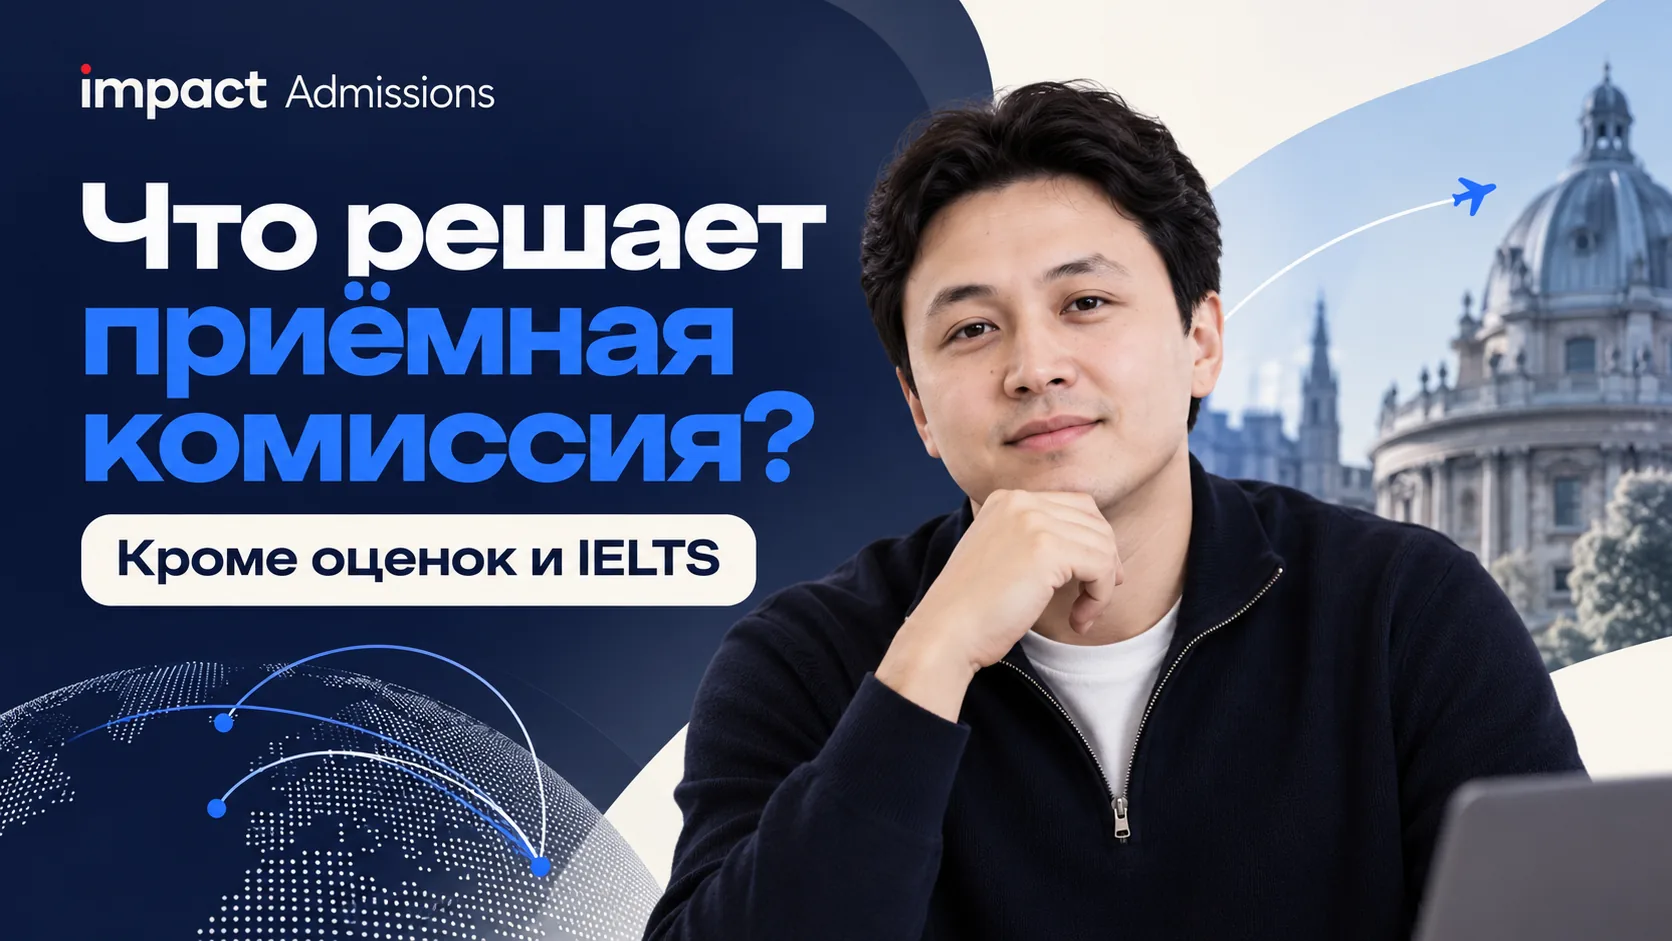
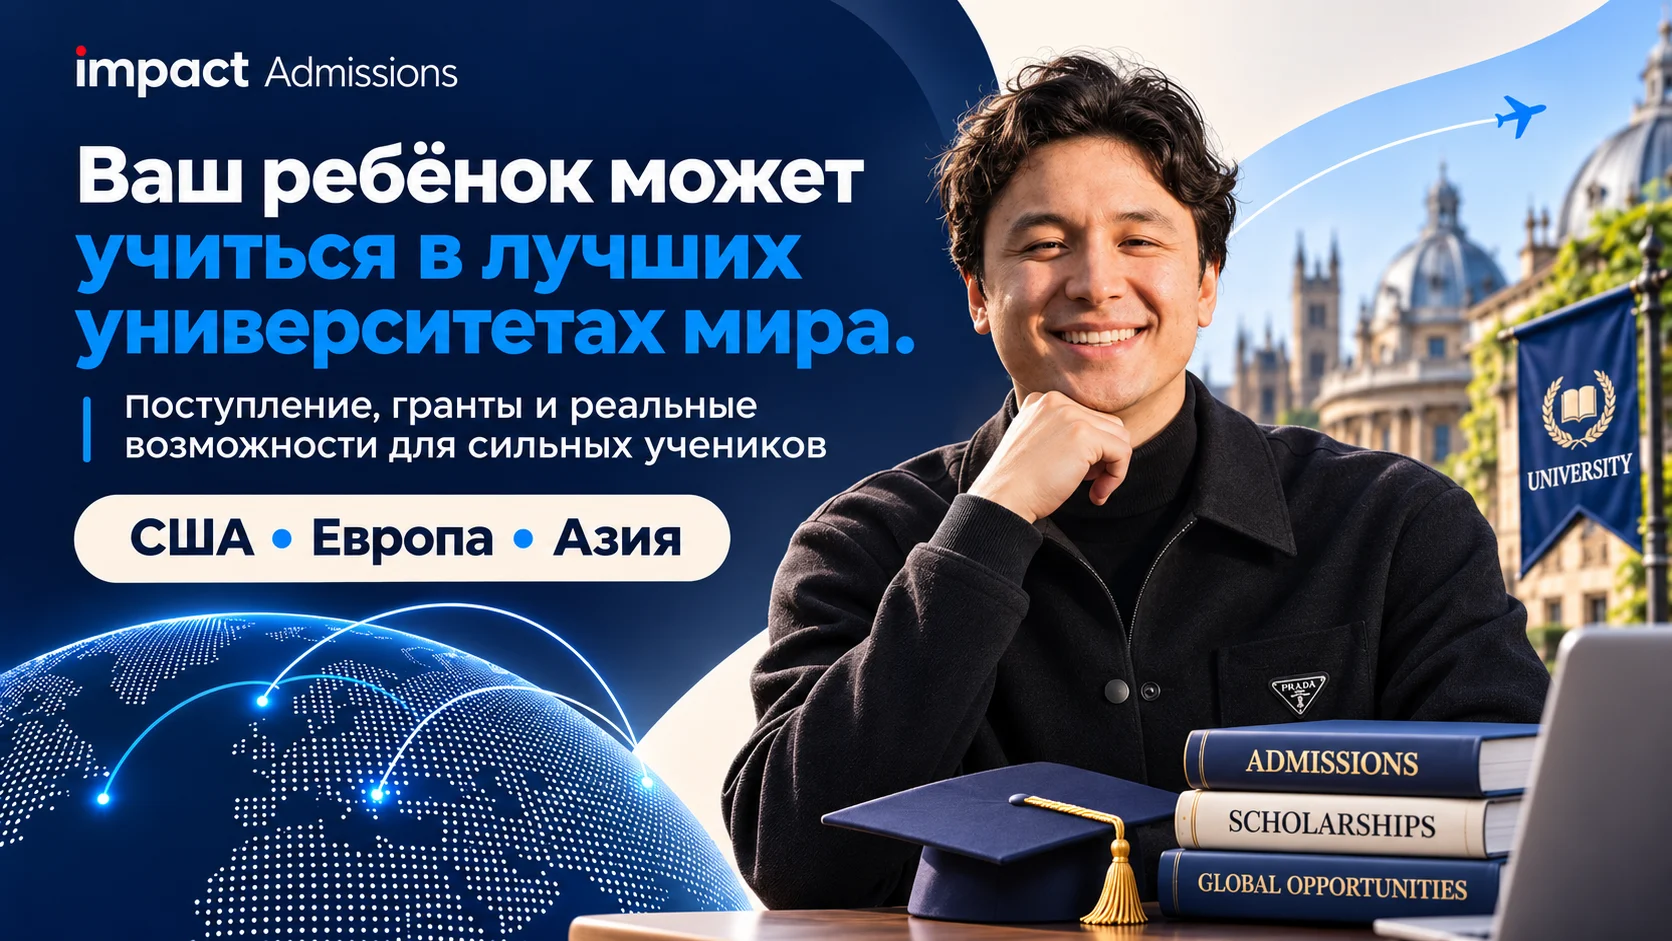
Use the new video cover

diff --git a/index.html b/index.html
@@ -83,7 +83,7 @@
                 <img
                   class="player-poster"
                   src="/photos/video-cover.webp"
-                  alt="Обложка ролика: что решает приёмная комиссия, кроме оценок и IELTS"
+                  alt="Обложка ролика: Ваш ребёнок может учиться в лучших университетах мира. США, Европа, Азия"
                   width="1672"
                   height="941"
                 />
